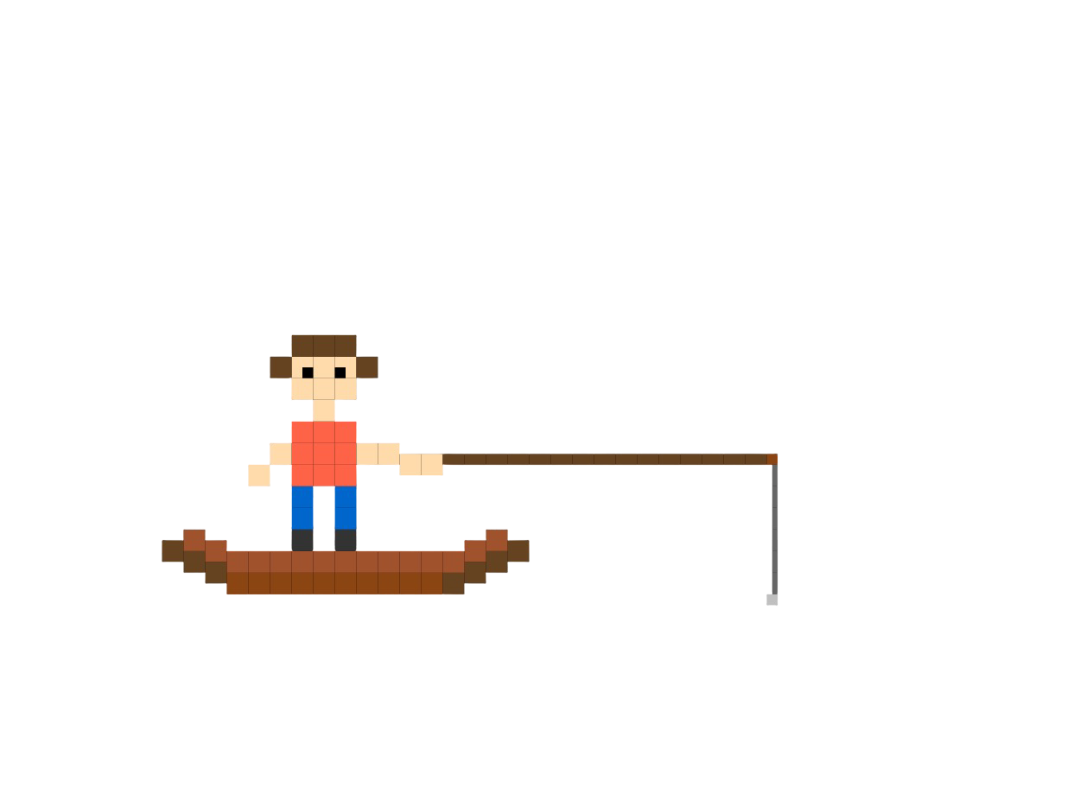
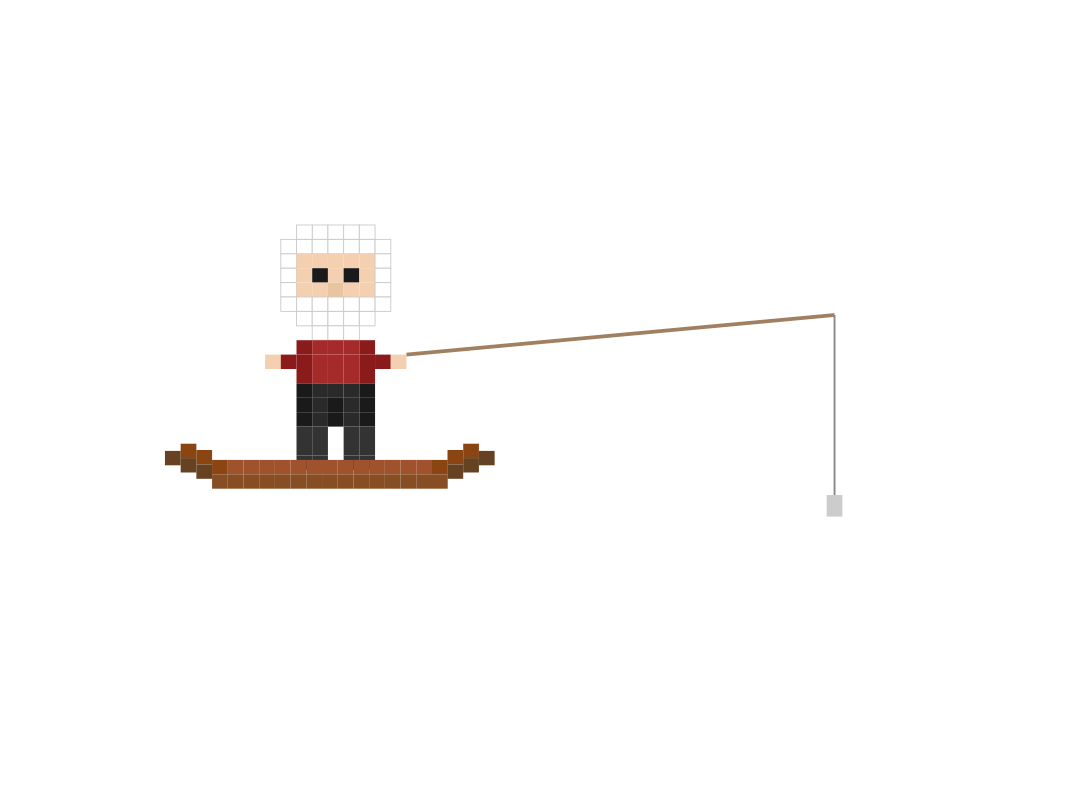
change the image of the boat

diff --git a/modes/mode_classic.py b/modes/mode_classic.py
@@ -84,7 +84,7 @@ def load_graphics():
     boat_image = pygame.image.load("graphics/boat.png")
     boat_image = pygame.transform.scale(boat_image, (310, 260))
     boat_x = SCREEN_WIDTH // 2 - boat_image.get_width() // 2 - 300
-    boat_y = WATER_SURFACE - boat_image.get_height() // 2 - 52
+    boat_y = WATER_SURFACE - boat_image.get_height() // 2 - 20
 
     # Load fishing hook
     hook_image = pygame.image.load("graphics/fishing_hook.png")
@@ -413,7 +413,7 @@ def main():
     SCREAM_INCREMENT = 1  # 1% per frame with scream detected
 
     # Scream threshold for controlling the hook
-    HOOK_SCREAM_THRESHOLD = 15000
+    HOOK_SCREAM_THRESHOLD = 5000
 
     # Release message state
     showing_release_message = False
@@ -515,8 +515,8 @@ def main():
             )
 
             # Calculate hook position
-            rod_x = boat_x + graphics['boat_image'].get_width() - 83
-            rod_top_y = boat_y + 175
+            rod_x = boat_x + graphics['boat_image'].get_width() - 65
+            rod_top_y = boat_y + 160
 
             # Update casting and check for catches
             caught = casting_manager.update(
@@ -612,8 +612,8 @@ def main():
         screen.blit(graphics['boat_image'], (boat_x, boat_y))
 
         # Draw fishing line
-        rod_x = boat_x + graphics['boat_image'].get_width() - 83
-        rod_top_y = boat_y + 175
+        rod_x = boat_x + graphics['boat_image'].get_width() - 65
+        rod_top_y = boat_y + 160
         hook_x = rod_x
         hook_y = rod_top_y + casting_manager.rod_length
 

diff --git a/modes/mode_endless.py b/modes/mode_endless.py
@@ -89,7 +89,7 @@ def load_graphics():
     boat_image = pygame.image.load("graphics/boat.png")
     boat_image = pygame.transform.scale(boat_image, (310, 260))
     boat_x = SCREEN_WIDTH // 2 - boat_image.get_width() // 2 - 300
-    boat_y = WATER_SURFACE - boat_image.get_height() // 2 - 52
+    boat_y = WATER_SURFACE - boat_image.get_height() // 2 - 20
 
     # Load fishing hook
     hook_image = pygame.image.load("graphics/fishing_hook.png")
@@ -377,8 +377,8 @@ def main():
             )
 
             # Hook position
-            rod_x = boat_x + graphics['boat_image'].get_width() - 83
-            rod_top_y = boat_y + 175
+            rod_x = boat_x + graphics['boat_image'].get_width() - 65
+            rod_top_y = boat_y + 160
 
             # Casting
             result = casting_manager.update(
@@ -420,8 +420,8 @@ def main():
         screen.blit(graphics['boat_image'], (boat_x, boat_y))
 
         # Fishing line
-        rod_x = boat_x + graphics['boat_image'].get_width() - 83
-        rod_top_y = boat_y + 175
+        rod_x = boat_x + graphics['boat_image'].get_width() - 65
+        rod_top_y = boat_y + 160
         hook_x = rod_x
         hook_y = rod_top_y + casting_manager.rod_length
 

diff --git a/modes/mode_time_attack.py b/modes/mode_time_attack.py
@@ -76,7 +76,7 @@ def load_graphics():
     boat_image = pygame.image.load("graphics/boat.png")
     boat_image = pygame.transform.scale(boat_image, (310, 260))
     boat_x = SCREEN_WIDTH // 2 - boat_image.get_width() // 2 - 300
-    boat_y = WATER_SURFACE - boat_image.get_height() // 2 - 52
+    boat_y = WATER_SURFACE - boat_image.get_height() // 2 - 20
 
     # Load fishing hook
     hook_image = pygame.image.load("graphics/fishing_hook.png")
@@ -376,8 +376,8 @@ def main():
             )
 
             # Hook position
-            rod_x = boat_x + graphics['boat_image'].get_width() - 83
-            rod_top_y = boat_y + 175
+            rod_x = boat_x + graphics['boat_image'].get_width() - 65
+            rod_top_y = boat_y + 160
 
             # Casting
             result = casting_manager.update(
@@ -416,8 +416,8 @@ def main():
         screen.blit(graphics['boat_image'], (boat_x, boat_y))
 
         # Fishing line
-        rod_x = boat_x + graphics['boat_image'].get_width() - 83
-        rod_top_y = boat_y + 175
+        rod_x = boat_x + graphics['boat_image'].get_width() - 65
+        rod_top_y = boat_y + 160
         hook_x = rod_x
         hook_y = rod_top_y + casting_manager.rod_length
 
